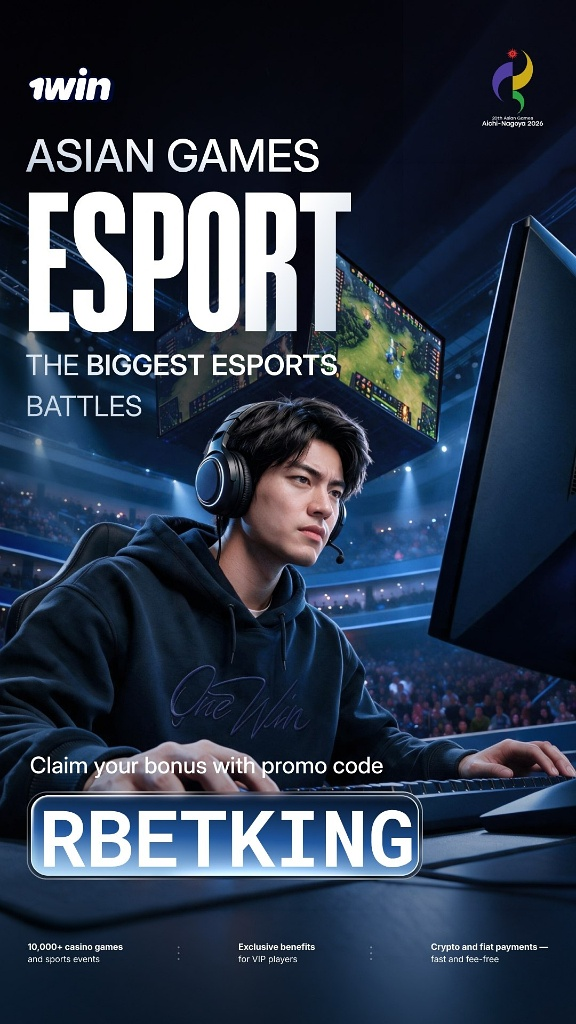
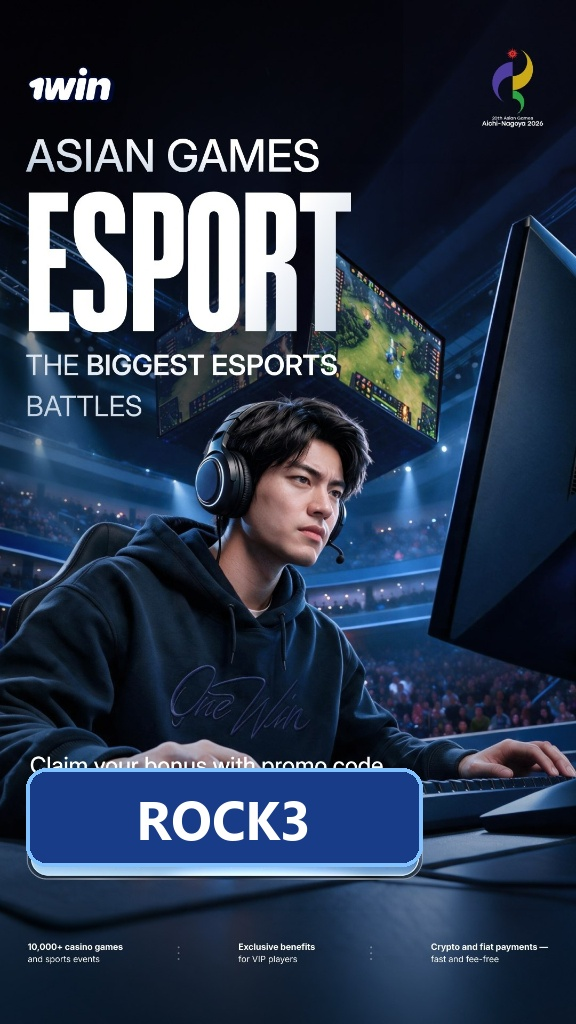
Update promo code to ROCK3 in bot code and guide graphics

Changed region(s): [[0.0312, 0.75, 0.75, 0.875]]

diff --git a/bot.py b/bot.py
@@ -76,7 +76,7 @@ def check_1win_referral_live(user_id: str) -> dict:
 BOT_TOKEN = os.environ.get("BOT_TOKEN", "")
 
 REGISTRATION_LINK = "https://one-vv4926.com/?open=register&p=4ej1"
-PROMO_CODE = "RBETKING"
+PROMO_CODE = "ROCK3"
 SUPPORT_USERNAME = "@Royal_BetKing"
 SUPPORT_URL = f"https://t.me/{SUPPORT_USERNAME.lstrip('@')}"
 CHANNEL_URL = "https://t.me/Royal_Bet_King"
@@ -223,7 +223,7 @@ async def promo_callback(update: Update, context: ContextTypes.DEFAULT_TYPE):
     query = update.callback_query
     if query is None:
         return
-    await query.answer("Promo Code: RBETKING")
+    await query.answer("Promo Code: ROCK3")
 
     keyboard = InlineKeyboardMarkup([
         [
